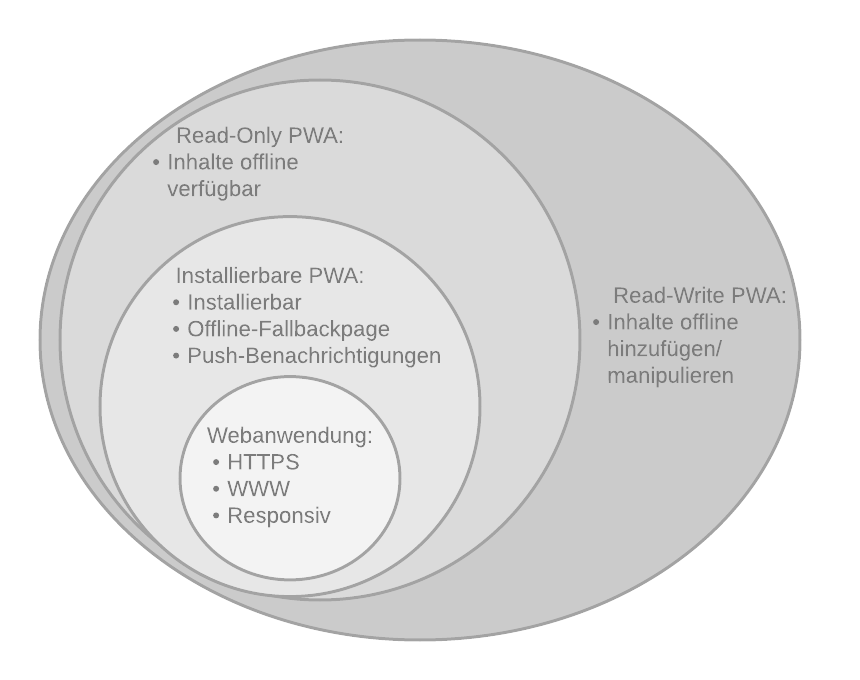
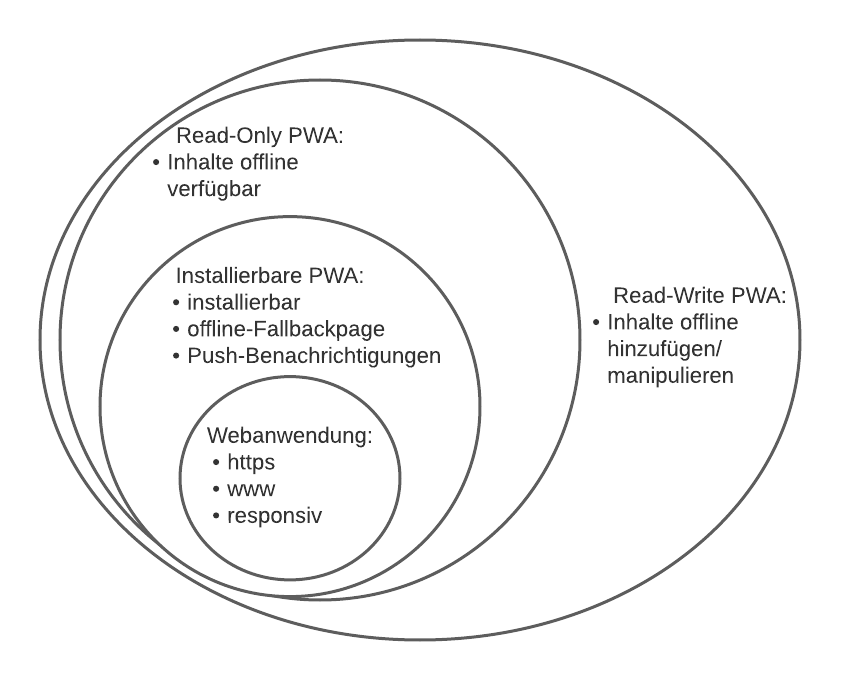
Bug fixes, added and edited Pictures

diff --git a/ServiceWorker.html b/ServiceWorker.html
@@ -114,7 +114,7 @@
 
         <div class="col col-1"></div>
 
-        <div class="col col-6 mb-4 mt-0 bg-light">
+        <div class="col col-6 mb-4 mt-0">
 
             <div class="float-right mt-3">
                 <button type="button" onclick="location.href='https://github.com/Erdmanny/pwa_1'" style="border: #f3f3f3; background-color: #f3f3f3">
@@ -141,6 +141,13 @@
             Des Weiteren muss neben der serviceWorker.js-Datei eine weitere JavaScript-Datei hinzugefügt werden,
             im Beispiel die app.js-Datei, da der Service Worker auf einem eigenen Thread läuft und somit nicht auf den DOM
             der Webseite zugreifen kann.
+            <br>
+            <br>
+
+            <img src="img/service-worker-infografik.jpg" class="img-thumbnail" alt="Lifecycle">
+            <div class="text-center">
+            Quelle: https://www.netzbewegung.com/de/digitale-denkanstoesse/serviceworker/
+            </div>
 
         <div class="border border-primary mb-2 mt-2"><pre><code>
 &ltbody&gt
@@ -170,8 +177,9 @@ navigator.serviceWorker.register('serviceworker.js')
         Nachdem der ServiceWorker nun über die app.js registriert wurde, wird dieser automatisch vom Browser installiert.
         Nun braucht es in der serviceworker.js ein <i><b>install</b></i>-Event, ein <i><b>activate</b></i>-Event
         und ein <i><b>fetch</b></i>-Event.
-
-        <img class="img-thumbnail" src="img/SW.jpeg" alt="Ablauf SW">
+        <br>
+        <br>
+        <img class="img-thumbnail mx-auto d-block"  src="img/SW.jpeg" alt="Ablauf SW" width="50%">
         <br>
         <br>
         Das <i><b>install</b></i>-Event reagiert auf die Installation durch den Browser mit Hilfe des EventListener
@@ -238,9 +246,6 @@ self.addEventListener("fetch", (event) => {
             In der Abbildung ist zu sehen, dass die installierte Version der PWA als eigene Anwendung startet und nicht
             als Tab an den Chrome Browser gebunden ist.
             <br>
-            <img width="49%" class="img-thumbnail" src="img/Installieren.png" alt="Installieren">
-            <img width="49%" class="img-thumbnail" src="img/Installieren_Smartphone.JPG" alt="Installieren_Smartphone">
-            <br>
             <br>
             <img class="img-thumbnail" src="img/PC_Vergleich_PWA_Chrome.png" alt="Vergleich">
             <br>
@@ -248,9 +253,11 @@ self.addEventListener("fetch", (event) => {
             Des Weiteren ist zu erkennen, dass die PWA sich, wie eine native App aus dem Play Store,
             im Vollbildmodus zeigt und beispielsweise keine URL einblendet.
             <br>
-            <img width="33%" class="img-thumbnail" src="img/Chrome.JPG" alt="Chrome">
-            <img width="33%" class="img-thumbnail" src="img/Installiert.JPG" alt="Installiert">
-            <img width="33%" class="img-thumbnail" src="img/Installiert_vs_Chrome.JPG" alt="Installiert_vs_Chrome">
+            <div class="text-center">
+            <img width="20%" class="img-thumbnail" src="img/Chrome.JPG" alt="Chrome">
+            <img width="20%" class="img-thumbnail" src="img/Installiert.JPG" alt="Installiert">
+            <img width="20%" class="img-thumbnail" src="img/Installiert_vs_Chrome.JPG" alt="Installiert_vs_Chrome">
+            </div>
             <br>
             <br>
             Wie beim Web-App-Manifest kann nach der Fertigstellung der Komponenten des ServiceWorker ebenfalls überprüft werden,
@@ -263,10 +270,10 @@ self.addEventListener("fetch", (event) => {
 
             <br>
             <br>
-            <button type="button"onclick="location.href='ServiceWorker.html'" class="btn btn-primary">Nach oben</button>
+            <button type="button" onclick="location.href='ServiceWorker.html'" class="btn btn-primary">Nach oben</button>
 
             <div class="float-right">
-                <button type="button"onclick="location.href='Fallbackpage.html'" class="btn btn-primary">Fallbackpage <svg xmlns="http://www.w3.org/2000/svg" width="16" height="16" fill="currentColor" class="bi bi-forward-fill" viewBox="0 0 16 16">
+                <button type="button" onclick="location.href='Fallbackpage.html'" class="btn btn-primary">Fallbackpage <svg xmlns="http://www.w3.org/2000/svg" width="16" height="16" fill="currentColor" class="bi bi-forward-fill" viewBox="0 0 16 16">
                     <path d="m9.77 12.11 4.012-2.953a.647.647 0 0 0 0-1.114L9.771 5.09a.644.644 0 0 0-.971.557V6.65H2v3.9h6.8v1.003c0 .505.545.808.97.557z"/>
                 </svg></button>
             </div>

diff --git a/Manifest.html b/Manifest.html
@@ -114,7 +114,7 @@
 
         <div class="col col-1"></div>
 
-        <div class="col col-6 mb-4 mt-0 bg-light">
+        <div class="col col-6 mb-4 mt-0">
 
             <div class="float-right mt-3">
                 <button type="button" onclick="location.href='https://github.com/Erdmanny/pwa_1'" style="border: #f3f3f3; background-color: #f3f3f3">
@@ -218,7 +218,7 @@
         Daraufhin kann unter "Application" das Manifest ausgewählt und auf Fehler überprüft werden.
       <br>
       <br>
-    <img class="img-thumbnail" src="img/WAM_Chrome.png" alt="Manifest in Chrome">
+    <img class="img-thumbnail mx-auto d-block" src="img/WAM_Chrome.png" alt="Manifest in Chrome">
       <br>
       <br>
         Dabei werden, bei richtiger Einbindung, alle im Manifest festgelegten Bestandteile aufgelistet.
@@ -251,10 +251,10 @@
 
             <br>
             <br>
-            <button type="button"onclick="location.href='Manifest.html'" class="btn btn-primary">Nach oben</button>
+            <button type="button" onclick="location.href='Manifest.html'" class="btn btn-primary">Nach oben</button>
 
             <div class="float-right">
-                <button type="button"onclick="location.href='ServiceWorker.html'" class="btn btn-primary">ServiceWorker <svg xmlns="http://www.w3.org/2000/svg" width="16" height="16" fill="currentColor" class="bi bi-forward-fill" viewBox="0 0 16 16">
+                <button type="button" onclick="location.href='ServiceWorker.html'" class="btn btn-primary">ServiceWorker <svg xmlns="http://www.w3.org/2000/svg" width="16" height="16" fill="currentColor" class="bi bi-forward-fill" viewBox="0 0 16 16">
                     <path d="m9.77 12.11 4.012-2.953a.647.647 0 0 0 0-1.114L9.771 5.09a.644.644 0 0 0-.971.557V6.65H2v3.9h6.8v1.003c0 .505.545.808.97.557z"/>
                 </svg></button>
             </div>

diff --git a/index.html b/index.html
@@ -115,7 +115,7 @@
 
         <div class="col col-1"></div>
 
-        <div class="col col-6 mb-4 mt-0 bg-light">
+        <div class="col col-6 mb-4 mt-0">
 
             <div class="float-right mt-3">
                 <button type="button" onclick="location.href='https://github.com/Erdmanny/pwa_0'" style="border: #f3f3f3; background-color: #f3f3f3">
@@ -153,6 +153,8 @@
         Das liegt daran, dass die verschiedenen PWAs sich in der Komplexität der Umsetzung stark unterscheiden und es nicht immer unbedingt notwendig ist,
         für jeden Zweck alle Funktionen umzusetzen.
         <br>
+            <br>
+            <img src="img/PWA_Uebersicht.png" alt="Übersicht_PWA" class="img-thumbnail mx-auto d-block" width="50%">
         <br>
             <h3>Ausführungen von PWAs</h3>
             <br>
@@ -162,8 +164,6 @@
         Dabei geht es um den Aufbau der Webseite, die dahinterstehende Datenbank und die Funktionsweise des MVC-Pattern von CodeIgniter 4.
             <br>
             <br>
-            <img src="img/PWA_Uebersicht.png" alt="Übersicht_PWA" class="img-thumbnail">
-
             <br>
 
             <h5>Installierbare PWA</h5>
@@ -196,7 +196,7 @@
 
             <br>
             <br>
-            <button type="button"onclick="location.href='index.html'" class="btn btn-primary">Nach oben</button>
+            <button type="button" onclick="location.href='index.html'" class="btn btn-primary">Nach oben</button>
 
             <div class="float-right">
                 <button type="button" onclick="location.href='pwa0.html'" class="btn btn-primary">Beispiel <svg xmlns="http://www.w3.org/2000/svg" width="16" height="16" fill="currentColor" class="bi bi-forward-fill" viewBox="0 0 16 16">

diff --git a/Datenbank.html b/Datenbank.html
@@ -114,7 +114,7 @@
 
         <div class="col col-1"></div>
 
-        <div class="col col-6 mb-4 mt-0 bg-light">
+        <div class="col col-6 mb-4 mt-0">
 
             <div class="float-right mt-3">
                 <button type="button" onclick="location.href='https://github.com/Erdmanny/pwa_0'" style="border: #f3f3f3; background-color: #f3f3f3">
@@ -152,13 +152,17 @@
                 <li><b>Password:</b> Passwort für den Login</li>
                 <li><b>Token:</b> Das persönliche Token des Nutzers</li>
             </ul>
+            <br>
+            <br>
+
+            <img src="img/Database_PWA_0.png" class="img-thumbnail mx-auto d-block" alt="Database_PWA_0">
 
             <br>
             <br>
-            <button type="button"onclick="location.href='Datenbank.html'" class="btn btn-primary">Nach oben</button>
+            <button type="button" onclick="location.href='Datenbank.html'" class="btn btn-primary">Nach oben</button>
 
             <div class="float-right">
-                <button type="button"onclick="location.href='Funktionsweise.html'" class="btn btn-primary">Funktionsweise <svg xmlns="http://www.w3.org/2000/svg" width="16" height="16" fill="currentColor" class="bi bi-forward-fill" viewBox="0 0 16 16">
+                <button type="button" onclick="location.href='Funktionsweise.html'" class="btn btn-primary">Funktionsweise <svg xmlns="http://www.w3.org/2000/svg" width="16" height="16" fill="currentColor" class="bi bi-forward-fill" viewBox="0 0 16 16">
                     <path d="m9.77 12.11 4.012-2.953a.647.647 0 0 0 0-1.114L9.771 5.09a.644.644 0 0 0-.971.557V6.65H2v3.9h6.8v1.003c0 .505.545.808.97.557z"/>
                 </svg></button>
             </div>

diff --git a/Cache-Strategie.html b/Cache-Strategie.html
@@ -114,7 +114,7 @@
 
         <div class="col col-1"></div>
 
-        <div class="col col-6 mb-4 mt-0 bg-light">
+        <div class="col col-6 mb-4 mt-0">
 
             <div class="float-right mt-3">
                 <button type="button" onclick="location.href='https://github.com/Erdmanny/pwa_2'" style="border: #f3f3f3; background-color: #f3f3f3">
@@ -131,10 +131,10 @@
 
             <br>
             <br>
-            <button type="button"onclick="location.href='Cache-Strategie.html'" class="btn btn-primary">Nach oben</button>
+            <button type="button" onclick="location.href='Cache-Strategie.html'" class="btn btn-primary">Nach oben</button>
 
             <div class="float-right">
-                <button type="button"onclick="location.href='Dynamisches-Cachen.html'" class="btn btn-primary">Dynamisches Cachen <svg xmlns="http://www.w3.org/2000/svg" width="16" height="16"
+                <button type="button" onclick="location.href='Dynamisches-Cachen.html'" class="btn btn-primary">Dynamisches Cachen <svg xmlns="http://www.w3.org/2000/svg" width="16" height="16"
                                                                                                             fill="currentColor" class="bi bi-forward-fill" viewBox="0 0 16 16">
                     <path d="m9.77 12.11 4.012-2.953a.647.647 0 0 0 0-1.114L9.771 5.09a.644.644 0 0 0-.971.557V6.65H2v3.9h6.8v1.003c0 .505.545.808.97.557z"/>
                 </svg></button>

diff --git a/Fallbackpage.html b/Fallbackpage.html
@@ -114,7 +114,7 @@
 
         <div class="col col-1"></div>
 
-        <div class="col col-6 mb-4 mt-0 bg-light">
+        <div class="col col-6 mb-4 mt-0">
 
             <div class="float-right mt-3">
                 <button type="button" onclick="location.href='https://github.com/Erdmanny/pwa_1'" style="border: #f3f3f3; background-color: #f3f3f3">
@@ -216,10 +216,10 @@ self.addEventListener("fetch", (event) => {
 
             <br>
             <br>
-            <button type="button"onclick="location.href='Fallbackpage.html'" class="btn btn-primary">Nach oben</button>
+            <button type="button" onclick="location.href='Fallbackpage.html'" class="btn btn-primary">Nach oben</button>
 
             <div class="float-right">
-                <button type="button"onclick="location.href='Lighthouse.html'" class="btn btn-primary">Lighthouse <svg xmlns="http://www.w3.org/2000/svg" width="16" height="16" fill="currentColor" class="bi bi-forward-fill" viewBox="0 0 16 16">
+                <button type="button" onclick="location.href='Lighthouse.html'" class="btn btn-primary">Lighthouse <svg xmlns="http://www.w3.org/2000/svg" width="16" height="16" fill="currentColor" class="bi bi-forward-fill" viewBox="0 0 16 16">
                     <path d="m9.77 12.11 4.012-2.953a.647.647 0 0 0 0-1.114L9.771 5.09a.644.644 0 0 0-.971.557V6.65H2v3.9h6.8v1.003c0 .505.545.808.97.557z"/>
                 </svg></button>
             </div>

diff --git a/Dynamisches-Cachen.html b/Dynamisches-Cachen.html
@@ -114,7 +114,7 @@
 
         <div class="col col-1"></div>
 
-        <div class="col col-6 mb-4 mt-0 bg-light">
+        <div class="col col-6 mb-4 mt-0">
 
             <div class="float-right mt-3">
                 <button type="button" onclick="location.href='https://github.com/Erdmanny/pwa_2'" style="border: #f3f3f3; background-color: #f3f3f3">
@@ -132,10 +132,10 @@
 
             <br>
             <br>
-            <button type="button"onclick="location.href='Dynamisches-Cachen.html'" class="btn btn-primary">Nach oben</button>
+            <button type="button" onclick="location.href='Dynamisches-Cachen.html'" class="btn btn-primary">Nach oben</button>
 
             <div class="float-right">
-                <button type="button"onclick="location.href='pwa3.html'" class="btn btn-primary">Read-Write PWA <svg xmlns="http://www.w3.org/2000/svg" width="16" height="16" fill="currentColor" class="bi bi-forward-fill" viewBox="0 0 16 16">
+                <button type="button" onclick="location.href='pwa3.html'" class="btn btn-primary">Read-Write PWA <svg xmlns="http://www.w3.org/2000/svg" width="16" height="16" fill="currentColor" class="bi bi-forward-fill" viewBox="0 0 16 16">
                     <path d="m9.77 12.11 4.012-2.953a.647.647 0 0 0 0-1.114L9.771 5.09a.644.644 0 0 0-.971.557V6.65H2v3.9h6.8v1.003c0 .505.545.808.97.557z"/>
                 </svg></button>
             </div>

diff --git a/Lighthouse.html b/Lighthouse.html
@@ -114,7 +114,7 @@
 
         <div class="col col-1"></div>
 
-        <div class="col col-6 mb-4 mt-0 bg-light">
+        <div class="col col-6 mb-4 mt-0">
 
             <div class="float-right mt-3">
                 <button type="button" onclick="location.href='https://github.com/Erdmanny/pwa_1'" style="border: #f3f3f3; background-color: #f3f3f3">
@@ -140,10 +140,10 @@
 
             <br>
             <br>
-            <button type="button"onclick="location.href='Lighthouse.html'" class="btn btn-primary">Nach oben</button>
+            <button type="button" onclick="location.href='Lighthouse.html'" class="btn btn-primary">Nach oben</button>
 
             <div class="float-right">
-                <button type="button"onclick="location.href='WebAPI.html'" class="btn btn-primary">Web-API <svg xmlns="http://www.w3.org/2000/svg" width="16" height="16" fill="currentColor" class="bi bi-forward-fill" viewBox="0 0 16 16">
+                <button type="button" onclick="location.href='WebAPI.html'" class="btn btn-primary">Web-API <svg xmlns="http://www.w3.org/2000/svg" width="16" height="16" fill="currentColor" class="bi bi-forward-fill" viewBox="0 0 16 16">
                     <path d="m9.77 12.11 4.012-2.953a.647.647 0 0 0 0-1.114L9.771 5.09a.644.644 0 0 0-.971.557V6.65H2v3.9h6.8v1.003c0 .505.545.808.97.557z"/>
                 </svg></button>
             </div>

diff --git a/pwa0.html b/pwa0.html
@@ -114,7 +114,7 @@
 
         <div class="col col-1"></div>
 
-        <div class="col col-6 mb-4 mt-0 bg-light">
+        <div class="col col-6 mb-4 mt-0">
 
 
             <div class="float-right mt-3">
@@ -156,10 +156,10 @@
         Die Masken von "Add Person" und "Edit Person" sind gleich aufgebaut.
         <br>
         <br>
-        <button type="button"onclick="location.href='pwa0.html'" class="btn btn-primary">Nach oben</button>
+        <button type="button" onclick="location.href='pwa0.html'" class="btn btn-primary">Nach oben</button>
 
             <div class="float-right">
-                <button type="button"onclick="location.href='Datenbank.html'" class="btn btn-primary">Datenbank <svg xmlns="http://www.w3.org/2000/svg" width="16" height="16" fill="currentColor" class="bi bi-forward-fill" viewBox="0 0 16 16">
+                <button type="button" onclick="location.href='Datenbank.html'" class="btn btn-primary">Datenbank <svg xmlns="http://www.w3.org/2000/svg" width="16" height="16" fill="currentColor" class="bi bi-forward-fill" viewBox="0 0 16 16">
                     <path d="m9.77 12.11 4.012-2.953a.647.647 0 0 0 0-1.114L9.771 5.09a.644.644 0 0 0-.971.557V6.65H2v3.9h6.8v1.003c0 .505.545.808.97.557z"/>
                 </svg></button>
             </div>

diff --git a/IndexedDB.html b/IndexedDB.html
@@ -114,7 +114,7 @@
 
     <div class="col col-1"></div>
 
-    <div class="col col-6 mb-4 mt-0 bg-light">
+    <div class="col col-6 mb-4 mt-0">
 
       <div class="float-right mt-3">
         <button type="button" onclick="location.href='https://github.com/Erdmanny/pwa_2'" style="border: #f3f3f3; background-color: #f3f3f3">
@@ -131,10 +131,10 @@
 
       <br>
       <br>
-      <button type="button"onclick="location.href='IndexedDB.html'" class="btn btn-primary">Nach oben</button>
+      <button type="button" onclick="location.href='IndexedDB.html'" class="btn btn-primary">Nach oben</button>
 
       <div class="float-right">
-        <button type="button"onclick="location.href='index.html'" class="btn btn-primary">Startseite <svg xmlns="http://www.w3.org/2000/svg" width="16" height="16" fill="currentColor" class="bi bi-forward-fill" viewBox="0 0 16 16">
+        <button type="button" onclick="location.href='index.html'" class="btn btn-primary">Startseite <svg xmlns="http://www.w3.org/2000/svg" width="16" height="16" fill="currentColor" class="bi bi-forward-fill" viewBox="0 0 16 16">
           <path d="m9.77 12.11 4.012-2.953a.647.647 0 0 0 0-1.114L9.771 5.09a.644.644 0 0 0-.971.557V6.65H2v3.9h6.8v1.003c0 .505.545.808.97.557z"/>
         </svg></button>
       </div>

diff --git a/pwa2.html b/pwa2.html
@@ -114,7 +114,7 @@
 
         <div class="col col-1"></div>
 
-        <div class="col col-6 mb-4 mt-0 bg-light">
+        <div class="col col-6 mb-4 mt-0">
 
 
             <div class="float-right mt-3">
@@ -131,10 +131,10 @@
 
             <br>
             <br>
-            <button type="button"onclick="location.href='pwa2.html'" class="btn btn-primary">Nach oben</button>
+            <button type="button" onclick="location.href='pwa2.html'" class="btn btn-primary">Nach oben</button>
 
             <div class="float-right">
-                <button type="button"onclick="location.href='Cache-Strategie.html'" class="btn btn-primary">Cache-Strategie <svg xmlns="http://www.w3.org/2000/svg" width="16" height="16" fill="currentColor" class="bi bi-forward-fill" viewBox="0 0 16 16">
+                <button type="button" onclick="location.href='Cache-Strategie.html'" class="btn btn-primary">Cache-Strategie <svg xmlns="http://www.w3.org/2000/svg" width="16" height="16" fill="currentColor" class="bi bi-forward-fill" viewBox="0 0 16 16">
                     <path d="m9.77 12.11 4.012-2.953a.647.647 0 0 0 0-1.114L9.771 5.09a.644.644 0 0 0-.971.557V6.65H2v3.9h6.8v1.003c0 .505.545.808.97.557z"/>
                 </svg></button>
             </div>

diff --git a/pwa1.html b/pwa1.html
@@ -114,7 +114,7 @@
 
         <div class="col col-1"></div>
 
-        <div class="col col-6 mb-4 mt-0 bg-light">
+        <div class="col col-6 mb-4 mt-0">
 
 
             <div class="float-right mt-3">
@@ -160,10 +160,10 @@
 
             <br>
             <br>
-            <button type="button"onclick="location.href='pwa1.html'" class="btn btn-primary">Nach oben</button>
+            <button type="button" onclick="location.href='pwa1.html'" class="btn btn-primary">Nach oben</button>
 
             <div class="float-right">
-                <button type="button"onclick="location.href='Manifest.html'" class="btn btn-primary">Web-App-Manifest <svg xmlns="http://www.w3.org/2000/svg" width="16" height="16" fill="currentColor" class="bi bi-forward-fill" viewBox="0 0 16 16">
+                <button type="button" onclick="location.href='Manifest.html'" class="btn btn-primary">Web-App-Manifest <svg xmlns="http://www.w3.org/2000/svg" width="16" height="16" fill="currentColor" class="bi bi-forward-fill" viewBox="0 0 16 16">
                     <path d="m9.77 12.11 4.012-2.953a.647.647 0 0 0 0-1.114L9.771 5.09a.644.644 0 0 0-.971.557V6.65H2v3.9h6.8v1.003c0 .505.545.808.97.557z"/>
                 </svg></button>
             </div>
